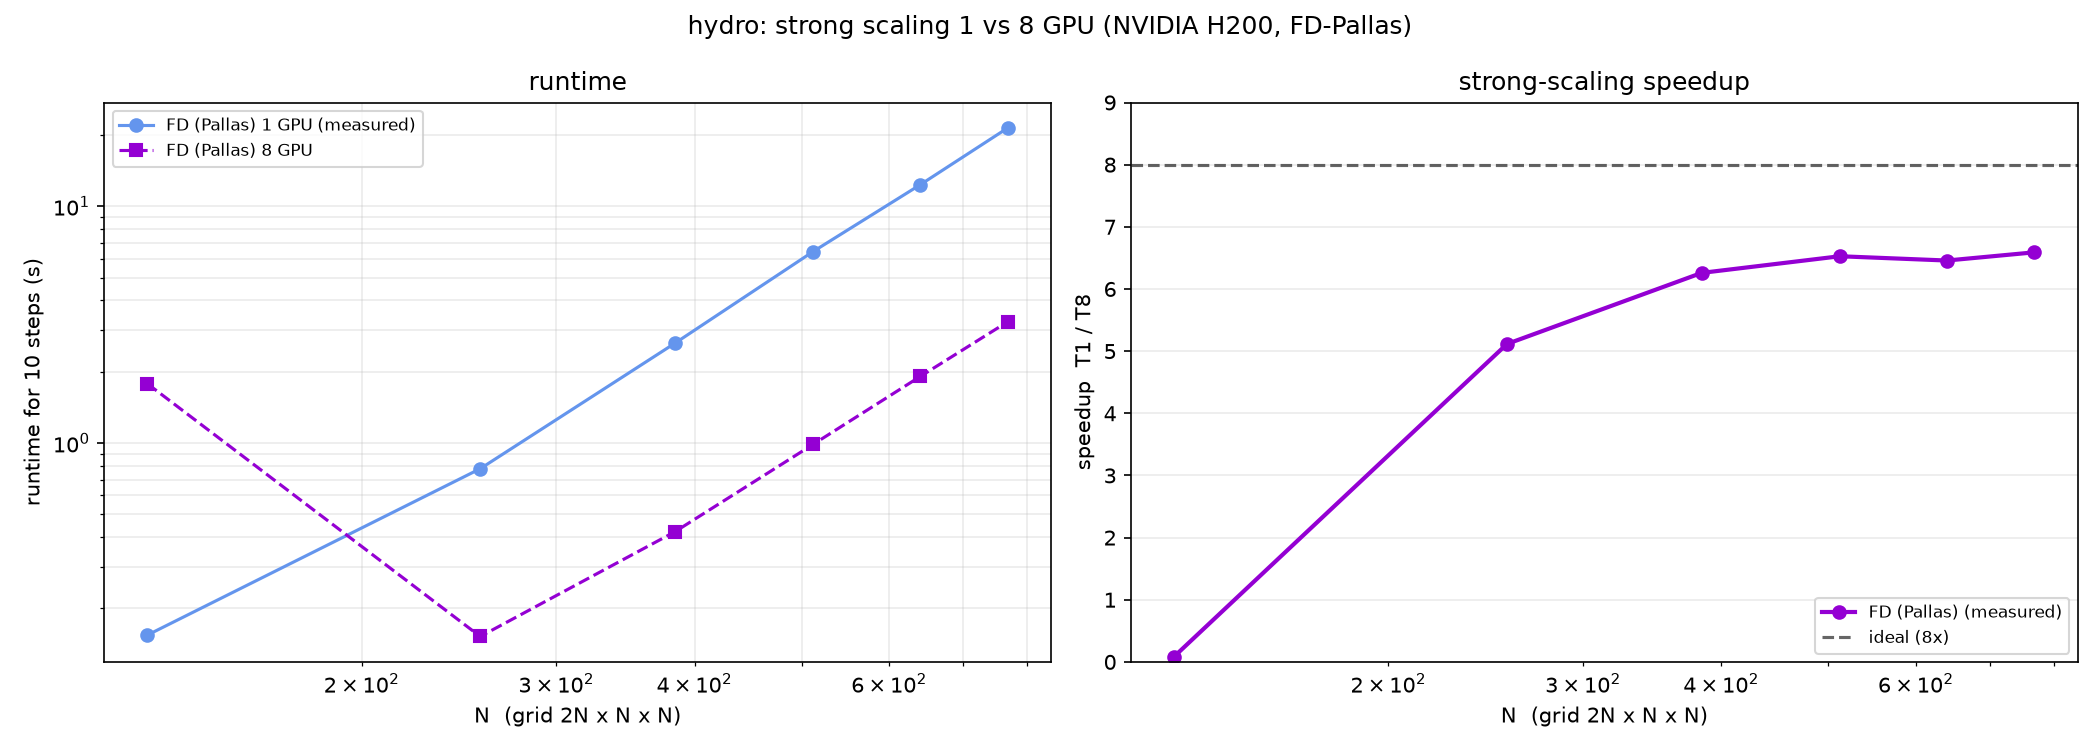
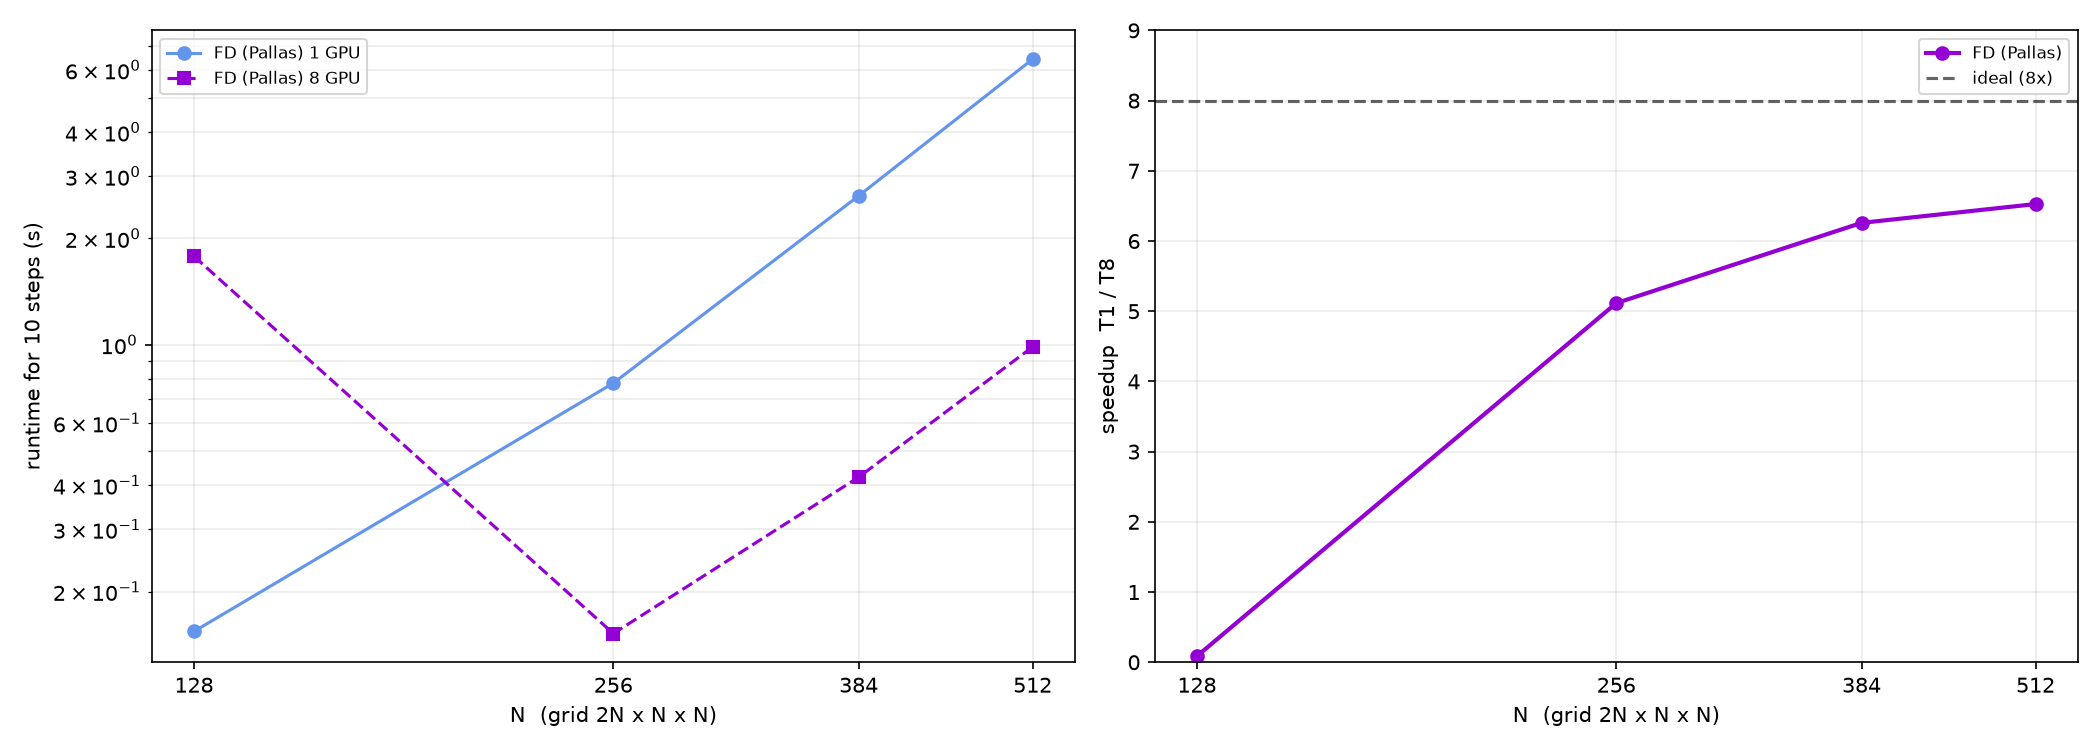
Strong + memory plots: add 4-GPU H100 lines, cap N=512, N-axis ticks, drop titles
- Combined strong speedup: overlay 4-GPU (H100) and 8-GPU (H200) FD-Pallas
  lines for hydro+MHD, de-duped per (setup,G), capped at N=512. Extrapolated
  1-GPU baselines are no longer visually distinguished (noted in caption).
- Memory breakdown: proper N-value x-ticks (not decade ticks), titles removed.
  hydro FD-Pallas confirms the clean ~2x transient/argument ratio.
- All strong/memory figures: titles removed for paper use.

diff --git a/pytests/scaling_results/plot_scaling.py b/pytests/scaling_results/plot_scaling.py
@@ -45,14 +45,24 @@ def _style_for(label):
     return SOLVER_STYLE.get(label, dict(marker="o", linestyle="-"))
 
 
-def _finish(ax, fig, path, title):
+def _finish(ax, fig, path, title=""):
     ax.grid(True, which="both", ls="-", alpha=STYLE["grid_alpha"])
     ax.legend(fontsize=9)
-    ax.set_title(title, fontsize=13)
+    if title:
+        ax.set_title(title, fontsize=13)
     fig.tight_layout()
     fig.savefig(path, dpi=STYLE["dpi"])
     plt.close(fig)
     print("wrote", path)
+
+
+def _set_n_ticks(ax, N_values):
+    """Label the (log) x-axis with the actual N grid sizes, no minor ticks."""
+    Nu = sorted({int(n) for n in N_values})
+    ax.set_xscale("log")
+    ax.set_xticks(Nu)
+    ax.set_xticklabels([str(n) for n in Nu])
+    ax.xaxis.set_minor_locator(plt.NullLocator())
 
 
 # --------------------------------------------------------------------------
@@ -138,6 +148,15 @@ def plot_block_shape():
 # --------------------------------------------------------------------------
 _PRETTY = {"fd_pallas": "FD (Pallas)", "fd_jax": "FD (JAX)", "fv_jax": "FV (JAX)"}
 _SETUP_COLOR = {"hydro": "darkviolet", "mhd": "seagreen", "selfgrav": "tab:orange"}
+STRONG_NMAX = 512  # cap the strong-scaling sweeps at N=512
+
+
+def _gpu_short(meta):
+    m = str(meta.get("gpu_model", "")).upper()
+    for tag in ("H200", "H100", "A100", "V100"):
+        if tag in m:
+            return tag
+    return meta.get("gpu_model", "GPU")
 
 
 def _extrapolate_baseline(N, r1, rN):
@@ -159,105 +178,107 @@ def _extrapolate_baseline(N, r1, rN):
     return filled, extrap
 
 
-def _strong_runs():
-    """Yield (setup, gpu, G, N, slug->(r1,rN)) for every strong-scaling NPZ."""
+def _strong_runs(setups=None):
+    """Yield (f, setup, gpu_short, G, N, slug->(r1,rN)) per strong-scaling NPZ.
+
+    Data is capped at ``STRONG_NMAX``.  Multiple files for the same (setup, G)
+    are de-duplicated, keeping the one with the most measured points.  Pass
+    ``setups`` to restrict to a subset (e.g. ["hydro", "mhd"]).
+    """
+    best = {}  # (setup, G) -> tuple
     for f in sorted(glob.glob(os.path.join(HERE, "strong_scaling", "*_strong_scaling.npz"))):
-        if "h200" not in os.path.basename(f):
-            continue  # headline H200 runs only (skip older H100 dev files)
         data, _ = _load(f)
         meta_path = f.replace("_strong_scaling.npz", "_strong_scaling.json")
         meta = json.load(open(meta_path)) if os.path.exists(meta_path) else {}
         N = np.asarray(data["N_values"], float)
+        keep = N <= STRONG_NMAX
         G = int(data["num_gpus"]) if "num_gpus" in data else 0
         setup = meta.get("setup", os.path.basename(f).split("_")[0])
-        gpu = meta.get("gpu_model", "H200")
+        if setups is not None and setup not in setups:
+            continue
         slugs = sorted({k.split("__")[0] for k in data if "__" in k})
-        series = {s: (np.asarray(data[f"{s}__runtime_1"], float),
-                      np.asarray(data[f"{s}__runtime_N"], float)) for s in slugs}
-        yield f, setup, gpu, G, N, series
+        series = {s: (np.asarray(data[f"{s}__runtime_1"], float)[keep],
+                      np.asarray(data[f"{s}__runtime_N"], float)[keep]) for s in slugs}
+        rec = (f, setup, _gpu_short(meta), G, N[keep], series)
+        # de-dup: prefer the file with more finite fd_pallas 8/1-GPU points
+        r1, rN = series.get("fd_pallas", (np.array([]), np.array([])))
+        score = int(np.sum(np.isfinite(r1) & np.isfinite(rN)))
+        key = (setup, G)
+        if key not in best or score > best[key][0]:
+            best[key] = (score, rec)
+    for _score, rec in best.values():
+        yield rec
 
 
 def plot_strong():
-    """Per-setup 2-panel figure (runtime + speedup) with extrapolated baselines."""
-    for f, setup, gpu, G, N, series in _strong_runs():
+    """Per-setup 2-panel figure (runtime + speedup), 8-GPU H200 headline."""
+    for f, setup, gpu, G, N, series in _strong_runs(setups=["hydro", "mhd"]):
+        if G != 8:
+            continue  # per-setup headline figures show the 8-GPU H200 run
         fig, (a1, a2) = plt.subplots(1, 2, figsize=(14, 5))
         for slug, (r1, rN) in series.items():
             pretty = _PRETTY.get(slug, slug)
-            r1f, extr = _extrapolate_baseline(N, r1, rN)
+            r1f, _extr = _extrapolate_baseline(N, r1, rN)
             sp = r1f / rN
-            real = np.isfinite(r1) & (r1 > 0) & np.isfinite(rN) & (rN > 0)
-            # runtime panel
-            a1.loglog(N[real], r1[real], marker="o", color="cornflowerblue",
-                      label=f"{pretty} 1 GPU (measured)")
-            if extr.any():
-                a1.loglog(N[extr], r1f[extr], marker="o", mfc="none", ls=":",
-                          color="cornflowerblue", label=f"{pretty} 1 GPU (extrapolated)")
-            a1.loglog(N[np.isfinite(rN) & (rN > 0)], rN[np.isfinite(rN) & (rN > 0)],
-                      marker="s", ls="--", color="darkviolet", label=f"{pretty} {G} GPU")
-            # speedup panel
-            a2.plot(N[real], sp[real], marker="o", color="darkviolet",
-                    linewidth=STYLE["linewidth"], label=f"{pretty} (measured)")
-            if extr.any():
-                a2.plot(N[extr], sp[extr], marker="o", mfc="none", ls=":",
-                        color="darkviolet", label=f"{pretty} (extrapolated baseline)")
+            real1 = np.isfinite(r1) & (r1 > 0)
+            realN = np.isfinite(rN) & (rN > 0)
+            a1.loglog(N[real1], r1[real1], marker="o", color="cornflowerblue",
+                      label=f"{pretty} 1 GPU")
+            a1.loglog(N[realN], rN[realN], marker="s", ls="--", color="darkviolet",
+                      label=f"{pretty} {G} GPU")
+            ok = np.isfinite(sp) & realN
+            a2.plot(N[ok], sp[ok], marker="o", color="darkviolet",
+                    linewidth=STYLE["linewidth"], label=pretty)
         a2.axhline(G, color="k", ls="--", alpha=0.6, label=f"ideal ({G}x)")
         a1.set_xlabel("N  (grid 2N x N x N)"); a1.set_ylabel("runtime for 10 steps (s)")
-        a1.set_title("runtime"); a1.grid(True, which="both", alpha=STYLE["grid_alpha"])
+        _set_n_ticks(a1, N); a1.grid(True, which="both", alpha=STYLE["grid_alpha"])
         a1.legend(fontsize=8)
-        a2.set_xscale("log"); a2.set_xlabel("N  (grid 2N x N x N)")
-        a2.set_ylabel(f"speedup  T1 / T{G}"); a2.set_title("strong-scaling speedup")
+        a2.set_xlabel("N  (grid 2N x N x N)"); _set_n_ticks(a2, N)
+        a2.set_ylabel(f"speedup  T1 / T{G}")
         a2.set_ylim(0, G + 1); a2.grid(True, alpha=STYLE["grid_alpha"]); a2.legend(fontsize=8)
-        fig.suptitle(f"{setup}: strong scaling 1 vs {G} GPU ({gpu}, FD-Pallas)")
         fig.tight_layout()
         out = os.path.join(FIG, os.path.basename(f)[:-4] + ".png")
         fig.savefig(out, dpi=STYLE["dpi"]); plt.close(fig); print("wrote", out)
 
 
 def plot_strong_speedup_combined():
-    """Single headline speedup-vs-N figure: one line per (setup, GPU-count).
+    """Headline speedup-vs-N figure: one line per (setup, GPU-count).
 
-    Overlays every H200 FD-Pallas strong run, so the 4-GPU and 8-GPU sweeps
-    each get their own line (colour = setup, line/marker style = GPU count).
-    Extrapolated-baseline points are drawn hollow with a dotted connector.
+    Overlays the 4-GPU (H100) and 8-GPU (H200) FD-Pallas strong runs for hydro
+    and MHD.  Colour = setup, marker/linestyle = GPU count.  Where the 1-GPU
+    baseline OOMs at large N its runtime is power-law extrapolated so the
+    speedup point still appears (not visually distinguished -- noted in caption).
     """
-    runs = list(_strong_runs())
+    runs = list(_strong_runs(setups=["hydro", "mhd"]))
     if not runs:
         return
-    gpu = runs[0][2]
     Gs = sorted({r[3] for r in runs})
-    # marker/linestyle per GPU count so 4 vs 8 read clearly in monochrome too.
     g_style = {g: st for g, st in zip(
-        Gs, [dict(marker="o", ls="-"), dict(marker="^", ls="-."),
+        Gs, [dict(marker="^", ls="-."), dict(marker="o", ls="-"),
              dict(marker="s", ls="--"), dict(marker="D", ls=":")])}
     fig, ax = plt.subplots(figsize=STYLE["figsize"])
-    for _f, setup, _gpu, Gi, N, series in runs:
+    all_N = set()
+    for _f, setup, gpu, Gi, N, series in runs:
         r1, rN = series.get("fd_pallas", (None, None))
         if r1 is None:
             continue
         color = _SETUP_COLOR.get(setup, None)
         st = g_style.get(Gi, dict(marker="o", ls="-"))
-        r1f, extr = _extrapolate_baseline(N, r1, rN)
+        r1f, _extr = _extrapolate_baseline(N, r1, rN)
         sp = r1f / rN
-        real = np.isfinite(r1) & (r1 > 0) & np.isfinite(rN) & (rN > 0)
-        ax.plot(N[real], sp[real], color=color, linewidth=STYLE["linewidth"],
-                markersize=STYLE["marker_size"], label=f"{setup}, {Gi} GPU", **st)
-        if extr.any():
-            ax.plot(N[extr], sp[extr], color=color, mfc="none", linewidth=STYLE["linewidth"],
-                    markersize=STYLE["marker_size"] + 2, marker=st["marker"], ls=":",
-                    label=f"{setup}, {Gi} GPU (extrapolated baseline)")
+        ok = np.isfinite(sp) & np.isfinite(rN) & (rN > 0)
+        all_N.update(int(n) for n in N[ok])
+        ax.plot(N[ok], sp[ok], color=color, linewidth=STYLE["linewidth"],
+                markersize=STYLE["marker_size"], label=f"{setup}, {Gi} GPU ({gpu})", **st)
     for g in Gs:
         ax.axhline(g, color="k", ls="--", alpha=0.4)
-        ax.annotate(f"ideal {g}x", (ax.get_xlim()[0], g), fontsize=8, va="bottom", ha="left",
+        ax.annotate(f"ideal {g}x", (min(all_N), g), fontsize=8, va="bottom", ha="left",
                     color="k", alpha=0.6)
-    ax.set_xscale("log")
-    all_N = sorted({int(n) for r in runs for n in r[4]})
-    ax.set_xticks(all_N); ax.set_xticklabels([str(n) for n in all_N])
-    ax.xaxis.set_minor_locator(plt.NullLocator())
     ax.set_xlabel("N  (grid 2N x N x N)")
     ax.set_ylabel("strong-scaling speedup  T(1) / T(G)")
     ax.set_ylim(0, max(Gs) + 1)
-    _finish(ax, fig, os.path.join(FIG, "strong_speedup_hydro_mhd.png"),
-            f"Strong scaling ({gpu}, FD-Pallas): speedup vs resolution, 4 vs 8 GPU")
+    _set_n_ticks(ax, all_N)
+    _finish(ax, fig, os.path.join(FIG, "strong_speedup_hydro_mhd.png"))
 
 
 # --------------------------------------------------------------------------
@@ -272,8 +293,8 @@ def plot_single_gpu_memory():
             continue
         by_setup.setdefault(meta.get("setup", "?"), []).append((data, meta))
     for setup, runs in by_setup.items():
-        gpu = runs[0][1].get("gpu_model", "?")
         fig, (a1, a2) = plt.subplots(1, 2, figsize=(14, 5))
+        seen_N = set()
         for data, meta in runs:
             label = meta.get("solver_label", "?")
             N = np.asarray(data["N"], float)
@@ -281,22 +302,20 @@ def plot_single_gpu_memory():
             temp = np.asarray(data["temp_bytes"], float)
             arg = np.asarray(data["arg_bytes"], float)
             m = tot > 0
+            seen_N.update(int(n) for n in N[m])
             st = _style_for(label)
             a1.loglog(N[m], tot[m] / GB, label=label, markersize=STYLE["marker_size"],
                       linewidth=STYLE["linewidth"], **st)
             mr = m & (arg > 0)
-            a2.plot(N[mr], temp[mr] / arg[mr], label=label,
-                    markersize=STYLE["marker_size"], linewidth=STYLE["linewidth"], **st)
+            a2.semilogx(N[mr], temp[mr] / arg[mr], label=label,
+                        markersize=STYLE["marker_size"], linewidth=STYLE["linewidth"], **st)
         a1.set_xlabel("N  (grid 2N x N x N)"); a1.set_ylabel("total compiled memory (GiB)")
-        a1.set_title("total memory"); a1.grid(True, which="both", alpha=STYLE["grid_alpha"])
-        a1.legend(fontsize=9)
+        a1.grid(True, which="both", alpha=STYLE["grid_alpha"]); a1.legend(fontsize=9)
         a2.axhline(2.0, color="k", ls=":", alpha=0.5, label="ratio = 2")
-        a2.set_xscale("log")
         a2.set_xlabel("N  (grid 2N x N x N)")
         a2.set_ylabel("transient / argument memory")
-        a2.set_title("temp / arg memory ratio")
         a2.grid(True, alpha=STYLE["grid_alpha"]); a2.legend(fontsize=9)
-        fig.suptitle(f"{setup}: single-GPU memory vs resolution ({gpu})")
+        _set_n_ticks(a1, seen_N); _set_n_ticks(a2, seen_N)
         fig.tight_layout()
         out = os.path.join(FIG, f"single_gpu_{setup}_memory_breakdown.png")
         fig.savefig(out, dpi=STYLE["dpi"]); plt.close(fig); print("wrote", out)
